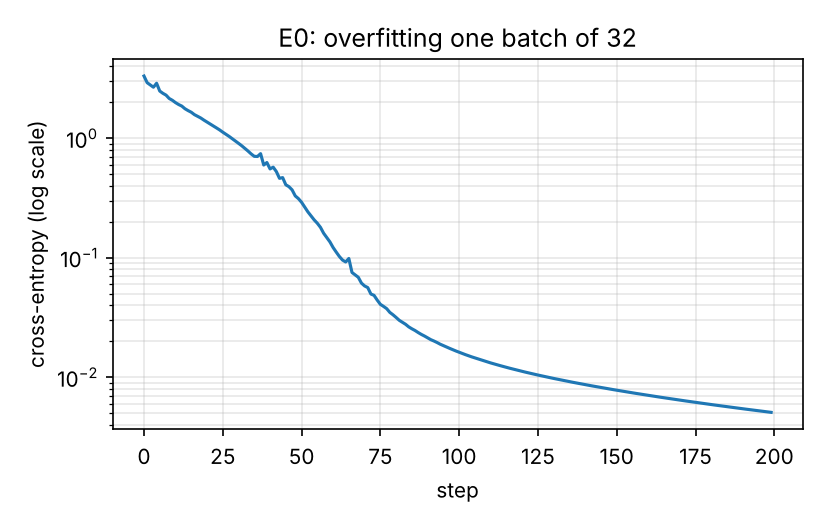
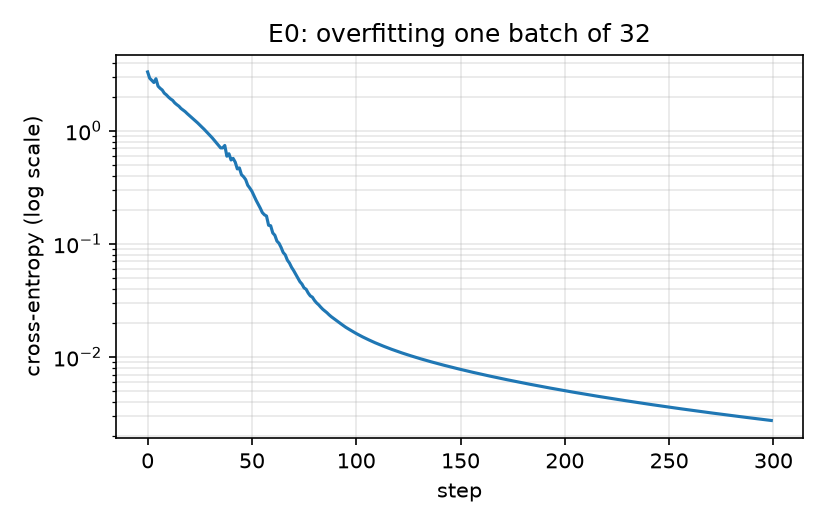
Add Gradio demo and inference helpers

diff --git a/rls-tiny-vlm/app.py b/rls-tiny-vlm/app.py
@@ -1,0 +1,63 @@
+"""Web interface: drop an image, the model answers with its one-word description.
+
+    pip install gradio
+    python app.py --ckpt runs/b0/best.pt            # add --share in Colab to get a public link
+The model only knows ShapeScenes (1-2 coloured shapes on a plain background): a photo of a cat
+will give a meaningless answer. Use "Random test image" to see real inputs with their reference.
+"""
+import argparse
+import random
+
+import gradio as gr
+import torch
+from PIL import Image
+
+from src.data import load_split
+from src.predict import describe, load_model, predict
+from src.train import pick_device
+
+
+def main():
+    p = argparse.ArgumentParser()
+    p.add_argument("--ckpt", required=True)
+    p.add_argument("--data_dir", default="data")
+    p.add_argument("--device", default="auto")
+    p.add_argument("--share", action="store_true")
+    a = p.parse_args()
+    device = pick_device(a.device)
+    model = load_model(a.ckpt, device)
+    test = load_split(a.data_dir, "test")
+
+    def answer(img):
+        if img is None:
+            return "", "Upload an image first."
+        word = predict(model, img, device)
+        return word, describe(word)
+
+    def random_sample():
+        i = random.randrange(len(test))
+        img = Image.fromarray(test.images[i].permute(1, 2, 0).numpy())
+        word = predict(model, img, device)
+        ok = "correct" if word == test.words[i] else "WRONG"
+        return img, word, describe(word), f"{test.words[i]}  ({ok})"
+
+    with gr.Blocks(title="Tiny VLM") as demo:
+        gr.Markdown("# Tiny VLM — spells what it sees\nShapeScenes images only (1–2 coloured shapes, 64×64).")
+        with gr.Row():
+            with gr.Column():
+                image = gr.Image(type="pil", label="Image", height=320)
+                with gr.Row():
+                    run = gr.Button("Describe", variant="primary")
+                    rnd = gr.Button("Random test image")
+            with gr.Column():
+                word = gr.Textbox(label="Generated word (letter by letter)")
+                text = gr.Textbox(label="Read as")
+                ref = gr.Textbox(label="Reference (test images only)")
+        run.click(answer, image, [word, text])
+        image.upload(answer, image, [word, text])
+        rnd.click(random_sample, None, [image, word, text, ref])
+    demo.launch(share=a.share)
+
+
+if __name__ == "__main__":
+    main()

diff --git a/rls-tiny-vlm/src/predict.py b/rls-tiny-vlm/src/predict.py
@@ -1,0 +1,55 @@
+"""Inference helpers: load a checkpoint, turn ANY picture into the model's input, predict a word.
+
+    python -m src.predict --ckpt runs/b0/best.pt --image my_scene.png
+"""
+import argparse
+
+import numpy as np
+import torch
+from PIL import Image
+
+from src.generate import greedy_generate
+from src.parsing import parse_word
+from src.tokenizer import CharTokenizer
+from src.train import build_model, pick_device
+
+NAMES = {"leftof": "left of", "rightof": "right of"}
+
+
+def load_model(ckpt_path: str, device: torch.device):
+    ck = torch.load(ckpt_path, map_location="cpu", weights_only=False)
+    model = build_model(ck["config"]).to(device)
+    model.load_state_dict(ck["model"])
+    return model.eval()
+
+
+def image_to_tensor(img: Image.Image) -> torch.Tensor:
+    """Any PIL image -> (1, 3, 64, 64) uint8, the format of the training data (RGB, 64x64)."""
+    img = img.convert("RGB").resize((64, 64), Image.LANCZOS)
+    return torch.from_numpy(np.array(img)).permute(2, 0, 1).unsqueeze(0).contiguous()
+
+
+def describe(word: str) -> str:
+    """'largeredcircleleftofsmallbluesquare' -> 'large red circle left of small blue square'."""
+    parts = parse_word(word).parts
+    return " ".join(NAMES.get(p, p) for p in parts)
+
+
+@torch.no_grad()
+def predict(model, img: Image.Image, device: torch.device) -> str:
+    return greedy_generate(model, image_to_tensor(img).to(device), CharTokenizer())[0]
+
+
+def main():
+    p = argparse.ArgumentParser()
+    p.add_argument("--ckpt", required=True)
+    p.add_argument("--image", required=True)
+    p.add_argument("--device", default="auto")
+    a = p.parse_args()
+    device = pick_device(a.device)
+    word = predict(load_model(a.ckpt, device), Image.open(a.image), device)
+    print(word, "->", describe(word))
+
+
+if __name__ == "__main__":
+    main()
